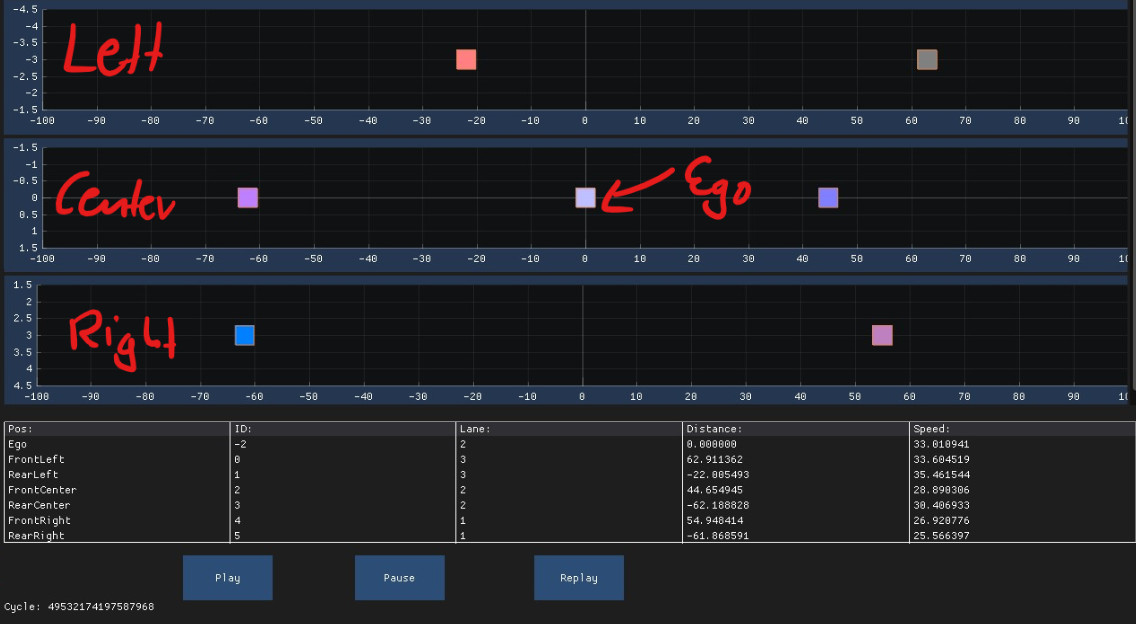
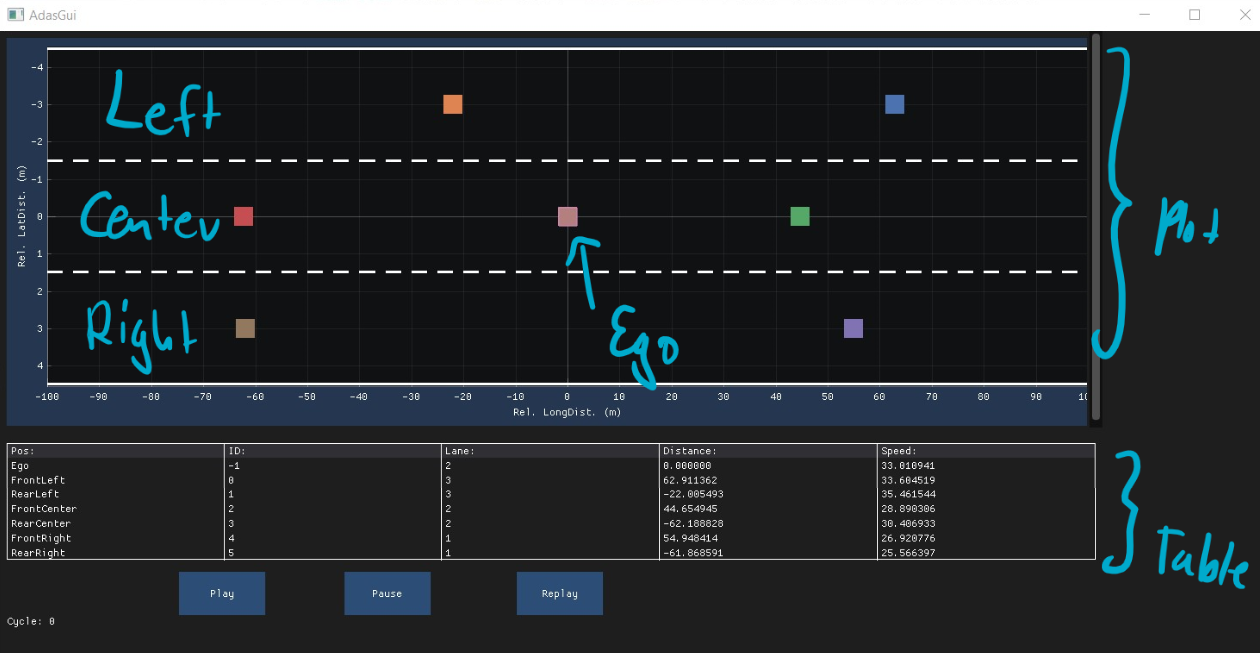
up

diff --git a/10_Advanced/AdasGui/src/Render.cc b/10_Advanced/AdasGui/src/Render.cc
@@ -1,5 +1,6 @@
 #include <algorithm>
 #include <array>
+#include <vector>
 
 #include "imgui.h"
 #include "implot.h"
@@ -9,7 +10,7 @@
 #include "Render.hpp"
 #include "RenderConstants.hpp"
 
-void render_cycle(std::size_t cycle, const VehicleType &ego_vehicle, const NeighborVehiclesType &vehicles)
+void render_cycle(const VehicleType &ego_vehicle, const NeighborVehiclesType &vehicles)
 {
     ImGui::SetNextWindowPos(ImVec2(0.0F, 0.0F));
     ImGui::SetNextWindowSize(ImVec2(WINDOWS_WIDTH, LANE_PLOT_TOTAL_HEIGHT));
@@ -18,66 +19,109 @@ void render_cycle(std::size_t cycle, const VehicleType &ego_vehicle, const Neigh
         ImPlot::CreateContext();
         plot_lanes(ego_vehicle, vehicles);
         plot_table(ego_vehicle, vehicles);
-        plot_cycle_number(cycle);
         ImGui::End();
     }
 }
 
+void plot_solid_line(const float border, std::string_view label)
+{
+    const float xs_left_left[2] = {-VIEW_RANGE_M, VIEW_RANGE_M};
+    const float ys_left_left[2] = {border, border};
+    ImPlot::SetNextLineStyle(LINE_COLOR, 3.0F);
+    ImPlot::PlotLine(label.data(), xs_left_left, ys_left_left, 2);
+}
+
+void plot_dashed_lines(const float border, std::string_view label)
+{
+    const auto slice_length = (2.0F * VIEW_RANGE_M) / 40.0F;
+    const auto empty_length = 2.0F;
+    const auto dashed_length = slice_length - empty_length;
+    const auto num_slices = static_cast<std::uint32_t>((2.0F * VIEW_RANGE_M) / slice_length);
+
+    for (uint32_t it = 0; it < num_slices; it++)
+    {
+        float it_f32 = static_cast<float>(it);
+
+        const float xs_center_left[2] = {-VIEW_RANGE_M + it_f32 * slice_length,
+                                         -VIEW_RANGE_M + it_f32 * slice_length + dashed_length};
+        const float ys_center_left[2] = {border, border};
+        ImPlot::SetNextLineStyle(LINE_COLOR, 3.0F);
+        ImPlot::PlotLine(label.data(), xs_center_left, ys_center_left, 2);
+    }
+}
+
+void plot_ego_vehicle(const VehicleType &ego_vehicle, std::string_view label)
+{
+    const auto ego_marker = ImPlotMarker_Square;
+    const auto ego_color = ImVec4(0.7F, 0.5F, 0.5F, 1.0F);
+
+    switch (ego_vehicle.lane)
+    {
+    case LaneAssociationType::LEFT:
+    {
+        ImPlot::SetNextMarkerStyle(ego_marker, VEHICLE_SCATTER_SIZE, ego_color);
+        ImPlot::PlotScatter(label.data(), &ego_vehicle.distance_m, &LEFT_LANE_OFFSET_M, 1);
+        break;
+    }
+    case LaneAssociationType::CENTER:
+    {
+        ImPlot::SetNextMarkerStyle(ego_marker, VEHICLE_SCATTER_SIZE, ego_color);
+        ImPlot::PlotScatter(label.data(), &ego_vehicle.distance_m, &CENTER_LANE_OFFSET_M, 1);
+
+        break;
+    }
+    case LaneAssociationType::RIGHT:
+    {
+        ImPlot::SetNextMarkerStyle(ego_marker, VEHICLE_SCATTER_SIZE, ego_color);
+        ImPlot::PlotScatter(label.data(), &ego_vehicle.distance_m, &RIGHT_LANE_OFFSET_M, 1);
+
+        break;
+    }
+    case LaneAssociationType::NONE:
+    default:
+    {
+        break;
+    }
+    }
+}
+
+void plot_lane_vehicles(const std::array<VehicleType, 2> &vehicles,
+                        const float offset_m,
+                        std::string_view label_front,
+                        std::string_view label_rear)
+{
+    ImPlot::SetNextMarkerStyle(ImPlotMarker_Square, VEHICLE_SCATTER_SIZE);
+    const auto xs_front = vehicles[0].distance_m;
+    const auto ys_front = offset_m;
+    ImPlot::PlotScatter(label_front.data(), &xs_front, &ys_front, 1);
+
+    ImPlot::SetNextMarkerStyle(ImPlotMarker_Square, VEHICLE_SCATTER_SIZE);
+    const auto xs_rear = vehicles[1].distance_m;
+    const auto ys_rear = offset_m;
+    ImPlot::PlotScatter(label_rear.data(), &xs_rear, &ys_rear, 1);
+}
+
 void plot_lanes(const VehicleType &ego_vehicle, const NeighborVehiclesType &vehicles)
 {
-    if (ImPlot::BeginPlot("##Lane1", PLOT_DIM, PLOT_FLAGS))
+    if (ImPlot::BeginPlot("##Lanes", PLOT_DIM, PLOT_FLAGS))
     {
-        ImPlot::SetupAxes(NULL, NULL, ImPlotAxisFlags_Lock, ImPlotAxisFlags_Lock | ImPlotAxisFlags_Invert);
-        ImPlot::SetupAxisLimits(ImAxis_X1, -MAX_VIEW_RANGE_M, MAX_VIEW_RANGE_M, ImGuiCond_Always);
-        ImPlot::SetupAxisLimits(ImAxis_Y1, LEFT_LEFT_BORDER, LEFT_RIGHT_BORDER, ImGuiCond_Always);
-        ImPlot::SetNextMarkerStyle(ImPlotMarker_Square, VEHICLE_SCATTER_SIZE, ImVec4(0.5F, 0.5F, 0.5F, 1.0F));
-        ImPlot::PlotScatter("FrontLeft", &vehicles.vehicles_left_lane[0].distance_m, &LEFT_LANE_OFFSET_M, 1);
-        ImPlot::SetNextMarkerStyle(ImPlotMarker_Square, VEHICLE_SCATTER_SIZE, ImVec4(1.0F, 0.5F, 0.5F, 1.0F));
-        ImPlot::PlotScatter("RearLeft", &vehicles.vehicles_left_lane[1].distance_m, &LEFT_LANE_OFFSET_M, 1);
+        ImPlot::SetupAxes("Rel. LongDist. (m)", "Rel. LatDist. (m)", ImPlotAxisFlags_Lock, AXES_FLAGS);
+        ImPlot::SetupAxisLimits(ImAxis_X1, -VIEW_RANGE_M, VIEW_RANGE_M, ImGuiCond_Always);
+        ImPlot::SetupAxisLimits(ImAxis_Y1,
+                                LEFT_LEFT_BORDER - 0.05F,
+                                RIGHT_RIGHT_BORDER + 0.05F,
+                                ImGuiCond_Always);
 
-        if (ego_vehicle.lane == LaneAssociationType::LEFT)
-        {
-            ImPlot::SetNextMarkerStyle(ImPlotMarker_Square, VEHICLE_SCATTER_SIZE, ImVec4(0.7F, 0.5F, 0.5F, 1.0F));
-            ImPlot::PlotScatter("Ego", &ego_vehicle.distance_m, &LEFT_LANE_OFFSET_M, 1);
-        }
+        plot_solid_line(LEFT_LEFT_BORDER, "LeftLeftLane");
+        plot_dashed_lines(CENTER_LEFT_BORDER, "CenterLeftLane");
+        plot_dashed_lines(CENTER_RIGHT_BORDER, "CenterRightLane");
+        plot_solid_line(RIGHT_RIGHT_BORDER, "RightRightLane");
 
-        ImPlot::EndPlot();
-    }
+        plot_lane_vehicles(vehicles.vehicles_left_lane, LEFT_LANE_OFFSET_M, "LeftFront", "LeftRear");
+        plot_lane_vehicles(vehicles.vehicles_center_lane, CENTER_LANE_OFFSET_M, "CenterFront", "CenterRear");
+        plot_lane_vehicles(vehicles.vehicles_right_lane, RIGHT_LANE_OFFSET_M, "RightFront", "RightRear");
 
-    if (ImPlot::BeginPlot("##Lane2", PLOT_DIM, PLOT_FLAGS))
-    {
-        ImPlot::SetupAxes(NULL, NULL, ImPlotAxisFlags_Lock, ImPlotAxisFlags_Lock | ImPlotAxisFlags_Invert);
-        ImPlot::SetupAxisLimits(ImAxis_X1, -MAX_VIEW_RANGE_M, MAX_VIEW_RANGE_M, ImGuiCond_Always);
-        ImPlot::SetupAxisLimits(ImAxis_Y1, CENTER_LEFT_BORDER, CENTER_RIGHT_BORDER, ImGuiCond_Always);
-        ImPlot::SetNextMarkerStyle(ImPlotMarker_Square, VEHICLE_SCATTER_SIZE, ImVec4(0.5F, 0.5F, 1.0F, 1.0F));
-        ImPlot::PlotScatter("FrontCenter", &vehicles.vehicles_center_lane[0].distance_m, &CENTER_LANE_OFFSET_M, 1);
-        ImPlot::SetNextMarkerStyle(ImPlotMarker_Square, VEHICLE_SCATTER_SIZE, ImVec4(0.75F, 0.5F, 1.0F, 1.0F));
-        ImPlot::PlotScatter("RearCenter", &vehicles.vehicles_center_lane[1].distance_m, &CENTER_LANE_OFFSET_M, 1);
-
-        if (ego_vehicle.lane == LaneAssociationType::CENTER)
-        {
-            ImPlot::SetNextMarkerStyle(ImPlotMarker_Square, VEHICLE_SCATTER_SIZE, ImVec4(0.7F, 0.5F, 0.5F, 1.0F));
-            ImPlot::PlotScatter("Ego", &ego_vehicle.distance_m, &CENTER_LANE_OFFSET_M, 1);
-        }
-
-        ImPlot::EndPlot();
-    }
-
-    if (ImPlot::BeginPlot("##Lane3", PLOT_DIM, PLOT_FLAGS))
-    {
-        ImPlot::SetupAxes(NULL, NULL, ImPlotAxisFlags_Lock, ImPlotAxisFlags_Lock | ImPlotAxisFlags_Invert);
-        ImPlot::SetupAxisLimits(ImAxis_X1, -MAX_VIEW_RANGE_M, MAX_VIEW_RANGE_M, ImGuiCond_Always);
-        ImPlot::SetupAxisLimits(ImAxis_Y1, RIGHT_LEFT_BORDER, RIGHT_RIGHT_BORDER, ImGuiCond_Always);
-        ImPlot::SetNextMarkerStyle(ImPlotMarker_Square, VEHICLE_SCATTER_SIZE, ImVec4(0.75F, 0.5F, 0.75F, 1.0F));
-        ImPlot::PlotScatter("FrontRight", &vehicles.vehicles_right_lane[0].distance_m, &RIGHT_LANE_OFFSET_M, 1);
-        ImPlot::SetNextMarkerStyle(ImPlotMarker_Square, VEHICLE_SCATTER_SIZE, ImVec4(0.75F, 0.75F, 1.0F, 1.0F));
-        ImPlot::PlotScatter("RearRight", &vehicles.vehicles_right_lane[1].distance_m, &RIGHT_LANE_OFFSET_M, 1);
-
-        if (ego_vehicle.lane == LaneAssociationType::RIGHT)
-        {
-            ImPlot::SetNextMarkerStyle(ImPlotMarker_Square, VEHICLE_SCATTER_SIZE, ImVec4(0.7F, 0.5F, 0.5F, 1.0F));
-            ImPlot::PlotScatter("Ego", &ego_vehicle.distance_m, &RIGHT_LANE_OFFSET_M, 1);
-        }
+        plot_ego_vehicle(ego_vehicle, "Ego");
 
         ImPlot::EndPlot();
     }
@@ -129,17 +173,6 @@ void plot_table(const VehicleType &ego_vehicle, const NeighborVehiclesType &vehi
             ImGui::EndTable();
         }
 
-        ImGui::End();
-    }
-}
-
-void plot_cycle_number(const std::size_t cycle)
-{
-    ImGui::SetNextWindowPos(ImVec2(0.0F, BELOW_LANES + CYCLE_OFFSET));
-    ImGui::SetNextWindowSize(ImVec2(CYCLE_NUMBER_WIDTH, CYCLE_NUMBER_HEIGHT));
-    if (ImGui::Begin("CycleWindow", nullptr, WINDOW_FLAGS_CLEAN))
-    {
-        ImGui::Text("Cycle: %d", static_cast<std::int32_t>(cycle));
         ImGui::End();
     }
 }

diff --git a/10_Advanced/AdasGui/app/cycle.cpp b/10_Advanced/AdasGui/app/cycle.cpp
@@ -46,7 +46,19 @@ void reset_state(const fs::path &ego_filepath,
     init_vehicles(data_filepath.string(), vehicles);
 }
 
-void cycle(const fs::path &ego_filepath, const fs::path &data_filepath, GLFWwindow *const window)
+
+void plot_cycle_number(const std::size_t cycle)
+{
+    ImGui::SetNextWindowPos(ImVec2(0.0F, BELOW_LANES + CYCLE_OFFSET));
+    ImGui::SetNextWindowSize(ImVec2(CYCLE_NUMBER_WIDTH, CYCLE_NUMBER_HEIGHT));
+    if (ImGui::Begin("CycleWindow", nullptr, WINDOW_FLAGS_CLEAN))
+    {
+        ImGui::Text("Cycle: %d", static_cast<std::int32_t>(cycle));
+        ImGui::End();
+    }
+}
+
+void cycle_function(const fs::path &ego_filepath, const fs::path &data_filepath, GLFWwindow *const window)
 {
     static bool is_playing = false;
     static bool pressed_play = false;
@@ -117,7 +129,7 @@ void cycle(const fs::path &ego_filepath, const fs::path &data_filepath, GLFWwind
 
         if (!pressed_pause && is_playing && cycle < NUM_ITERATIONS)
         {
-            render_cycle(cycle, ego_vehicle, vehicles);
+            render_cycle(ego_vehicle, vehicles);
             compute_future_state(ego_vehicle, vehicles, 0.100F);
 
             const auto &ego_lane_vehicles = get_vehicle_array(ego_vehicle.lane, vehicles);
@@ -131,17 +143,19 @@ void cycle(const fs::path &ego_filepath, const fs::path &data_filepath, GLFWwind
         }
         else if (pressed_pause)
         {
-            render_cycle(cycle, ego_vehicle, vehicles);
+            render_cycle(ego_vehicle, vehicles);
             is_playing = false;
         }
         else if (!is_playing)
         {
-            render_cycle(0, ego_vehicle, vehicles);
+            render_cycle(ego_vehicle, vehicles);
         }
         else if (cycle >= NUM_ITERATIONS)
         {
             is_playing = false;
         }
+
+        plot_cycle_number(cycle);
 
         ImGui::Render();
 

diff --git a/10_Advanced/AdasGui/src/RenderConstants.hpp b/10_Advanced/AdasGui/src/RenderConstants.hpp
@@ -3,22 +3,24 @@
 #include "imgui.h"
 #include "implot.h"
 
-constexpr auto WINDOW_FLAGS_CLEAN =
-    ImGuiWindowFlags_NoTitleBar | ImGuiWindowFlags_NoMove | ImGuiWindowFlags_NoBackground | ImGuiWindowFlags_NoResize;
+constexpr auto WINDOW_FLAGS_CLEAN = ImGuiWindowFlags_NoTitleBar | ImGuiWindowFlags_NoMove |
+                                    ImGuiWindowFlags_NoBackground | ImGuiWindowFlags_NoResize;
 constexpr auto PLOT_FLAGS = ImPlotFlags_NoTitle | ImPlotFlags_NoLegend;
 
 constexpr auto WINDOWS_HEIGHT{720.0F};
 constexpr auto WINDOWS_WIDTH{1280.0F};
 
+constexpr auto AXES_FLAGS = ImPlotAxisFlags_Lock | ImPlotAxisFlags_Invert;
 constexpr auto LEFT_LANE_OFFSET_M{-3.0F};
 constexpr auto CENTER_LANE_OFFSET_M{0.0F};
 constexpr auto RIGHT_LANE_OFFSET_M{3.0F};
-constexpr auto LANE_PLOT_HEIGHT{150.0F};
+constexpr auto LANE_PLOT_HEIGHT{3.0F * 150.0F};
 constexpr auto LANE_PLOT_WIDTH = WINDOWS_WIDTH - 15.0F;
-constexpr auto LANE_PLOT_TOTAL_HEIGHT = LANE_PLOT_HEIGHT * 3.0F + 10.0F;
+constexpr auto LANE_PLOT_TOTAL_HEIGHT = LANE_PLOT_HEIGHT + 10.0F;
 constexpr auto BELOW_LANES = LANE_PLOT_TOTAL_HEIGHT + 10.0F;
 constexpr auto VEHICLE_SCATTER_SIZE{15.0F};
 const auto PLOT_DIM = ImVec2(LANE_PLOT_WIDTH, LANE_PLOT_HEIGHT);
+const auto LINE_COLOR = ImVec4(1.0, 1.0, 1.0, 1.0);
 
 constexpr auto VEHICLE_TABLE_HEIGHT = WINDOWS_HEIGHT - LANE_PLOT_TOTAL_HEIGHT - 100.0F;
 constexpr auto VEHICLE_TABLE_WIDTH = WINDOWS_WIDTH;

diff --git a/10_Advanced/AdasGui/src/Render.hpp b/10_Advanced/AdasGui/src/Render.hpp
@@ -1,8 +1,21 @@
 #pragma once
 
+#include <string_view>
+
 #include "DataLoader.hpp"
 
-void render_cycle(std::size_t cycle, const VehicleType &ego_vehicle, const NeighborVehiclesType &vehicles);
+void render_cycle(const VehicleType &ego_vehicle, const NeighborVehiclesType &vehicles);
+
+void plot_solid_line(const float border, std::string_view label);
+
+void plot_dashed_lines(const float border, std::string_view label);
+
+void plot_ego_vehicle(const VehicleType &ego_vehicle, std::string_view label);
+
+void plot_lane_vehicles(const std::array<VehicleType, 2> &vehicles,
+                        const float offset_m,
+                        std::string_view label_front,
+                        std::string_view label_rear);
 
 void plot_lanes(const VehicleType &ego_vehicle, const NeighborVehiclesType &vehicles);
 

diff --git a/10_Advanced/AdasGui/app/cycle.hpp b/10_Advanced/AdasGui/app/cycle.hpp
@@ -23,4 +23,4 @@ void reset_state(const fs::path &ego_filepath,
                  VehicleType &ego_vehicle,
                  NeighborVehiclesType &vehicles);
 
-void cycle(const fs::path &ego_filepath, const fs::path &data_filepath, GLFWwindow *const window);
+void cycle_function(const fs::path &ego_filepath, const fs::path &data_filepath, GLFWwindow *const window);

diff --git a/10_Advanced/AdasGui/app/main.cpp b/10_Advanced/AdasGui/app/main.cpp
@@ -110,7 +110,7 @@ int main(int argc, char **argv)
     style.Colors[ImGuiCol_TableBorderStrong] = ImVec4(1.0, 1.0, 1.0, 1.0);
     style.Colors[ImGuiCol_TableBorderLight] = ImVec4(1.0, 1.0, 1.0, 1.0);
 
-    cycle(ego_filepath, data_filepath, window);
+    cycle_function(ego_filepath, data_filepath, window);
 
     // Cleanup
     ImGui_ImplOpenGL3_Shutdown();

diff --git a/10_Advanced/AdasGui/src/AdConstants.hpp b/10_Advanced/AdasGui/src/AdConstants.hpp
@@ -14,6 +14,3 @@ constexpr auto CENTER_LEFT_BORDER{-1.5F};
 constexpr auto CENTER_RIGHT_BORDER{1.5F};
 constexpr auto RIGHT_LEFT_BORDER{1.5F};
 constexpr auto RIGHT_RIGHT_BORDER{4.5F};
-
-constexpr auto MAX_VIEW_RANGE_M{100.0F};
-constexpr auto MAX_VEHICLE_SPEED_MPS{130.0F / 3.6F};

diff --git a/10_Advanced/AdasGui/Exercise.md b/10_Advanced/AdasGui/Exercise.md
@@ -6,29 +6,32 @@
 
 ## Exercise
 
-The GUI should display the following features:
-
-- For Left, Center, and Right Lane: Scatter Plot with ImPlot
-  - Plot the position of the vehicles
-  - Every vehicle should have a different color
-
-```cpp
-// Scatter Plot
-if (ImPlot::BeginPlot("##Lane1", PLOT_DIM, PLOT_FLAGS))
-{
-    ImPlot::SetupAxes(NULL, NULL, ImPlotAxisFlags_Lock, ImPlotAxisFlags_Lock | ImPlotAxisFlags_Invert);
-    ImPlot::SetupAxisLimits(ImAxis_X1, -MAX_VIEW_RANGE_M, MAX_VIEW_RANGE_M, ImGuiCond_Always);
-    ImPlot::SetupAxisLimits(ImAxis_Y1, LEFT_LEFT_BORDER, LEFT_RIGHT_BORDER, ImGuiCond_Always);
-    ImPlot::SetNextMarkerStyle(...); // See documentation
-    ImPlot::PlotScatter(...); // See documentation
-    ...
-}
-```
-
 For this new logic, add the files to the *src* folder
 
 - **Render.cpp**
 - **Render.hpp**
 - **RenderConstants.cpp**
+
+The GUI should display the following features:
+
+- For Left, Center, and Right Lane
+  - Scatter Plot with ImPlot
+    - Plot the position of the vehicles
+  - Tabular Plot with ImPlot
+    - Plot the ID, distance and speed of all vehicles
+
+```cpp
+// Scatter Plot
+if (ImPlot::BeginPlot("##Lanes", PLOT_DIM, PLOT_FLAGS))
+{
+    ImPlot::SetupAxes(NULL, NULL, ImPlotAxisFlags_Lock, ImPlotAxisFlags_Lock | ImPlotAxisFlags_Invert);
+    ImPlot::SetupAxisLimits(ImAxis_X1, -MAX_VIEW_RANGE_M, MAX_VIEW_RANGE_M, ImGuiCond_Always);
+    ImPlot::SetupAxisLimits(ImAxis_Y1, LEFT_LEFT_BORDER, LEFT_RIGHT_BORDER, ImGuiCond_Always);
+
+    // ImPlot::SetNextMarkerStyle(...); // See documentation
+    // ImPlot::PlotScatter(...); // See documentation
+    // ...
+}
+```
 
 ![Example](./media/AdasGuiDescr.png)
